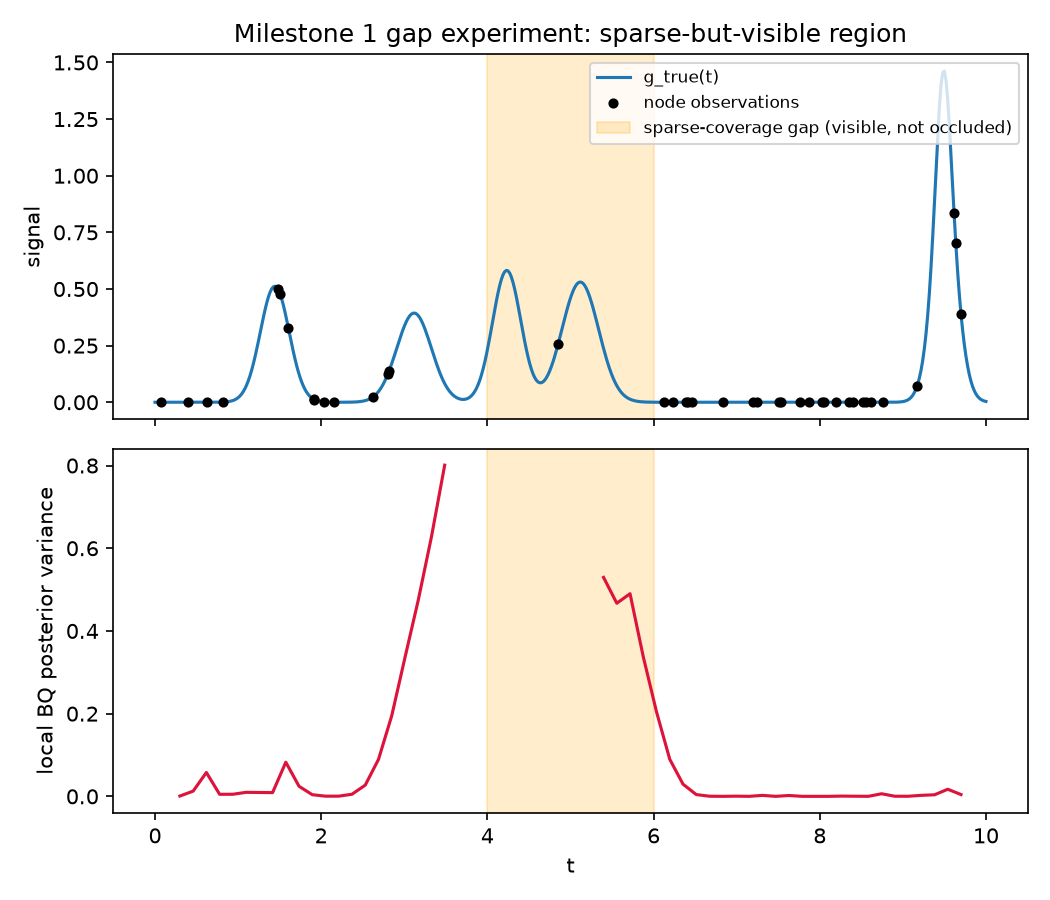
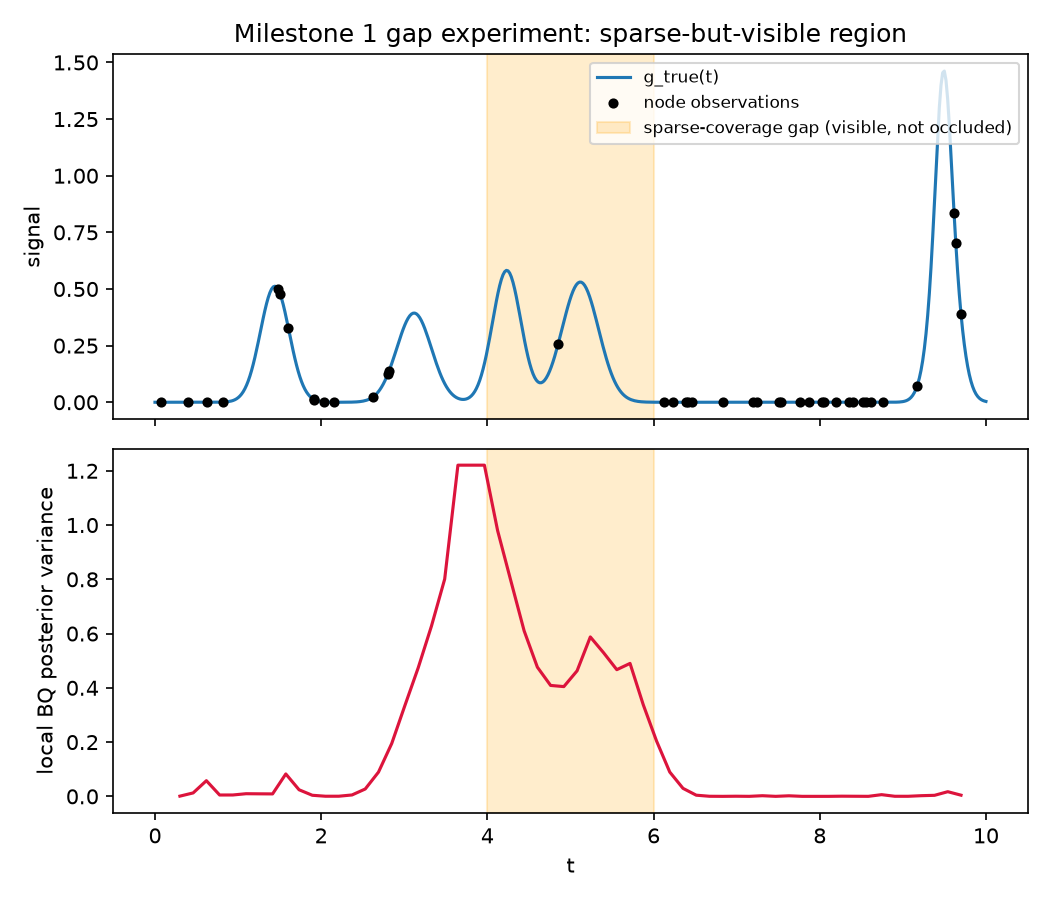
Fix NaN break in gap-experiment variance curve, update numbers
gap_experiment() skipped local BQ variance whenever fewer than 2 nodes fell
in a query window, appending NaN -- which matplotlib renders as a broken
line, right inside the sparse-coverage gap where the plot mattered most.
bayesian_quadrature() already handles n=0 (falls back to the prior
variance) and n=1 (a well-conditioned 1x1 solve) correctly, so the guard
was unnecessary. Removing it gives a continuous curve.

The corrected curve is more specific than the earlier write-up claimed:
variance peaks at the gap's leading edge, where sparse coverage first meets
real high-frequency structure, then stays moderately elevated through the
interior rather than climbing to a flat plateau. Updated FINDINGS.md,
README.md, and ROADMAP.md's milestone-1 status to the corrected 3.85x
inside/outside ratio (previously 6.5x, computed on the NaN-biased curve)
and the corrected shape description.

diff --git a/scripts/validate_milestone1.py b/scripts/validate_milestone1.py
@@ -124,9 +124,6 @@ def gap_experiment(seed=1):
         local_nodes_mask = (nodes >= lo) & (nodes <= hi)
         local_nodes = nodes[local_nodes_mask]
         local_values = values[local_nodes_mask]
-        if local_nodes.shape[0] < 2:
-            local_variances.append(np.nan)
-            continue
         result = bayesian_quadrature(local_nodes, local_values, kernel, lo, hi)
         local_variances.append(result.variance)
 

diff --git a/bq_splat/results/FINDINGS.md b/bq_splat/results/FINDINGS.md
@@ -54,20 +54,31 @@ A region interior to the domain (not occluded, not near an edge) was given
 deliberately sparse local node coverage while containing real high-frequency
 signal structure (two overlapping narrow bumps).
 
-- Mean local BQ variance **inside** the gap: 0.456
-- Mean local BQ variance **outside** the gap: 0.070
-- Ratio: **6.5x**
+- Mean local BQ variance **inside** the gap: 0.546
+- Mean local BQ variance **outside** the gap: 0.142
+- Ratio: **3.85x**
 
-See `gap_experiment.png`. This is the toy-scale version of the paper's
-central differentiation claim (quadrature uncertainty flags well-observed-
-but-under-resolved geometry, distinct from occlusion/visibility-based
-uncertainty) and it holds up here. One bonus observation from the plot:
-variance also spikes near a tall, narrow bump around t≈9.5 that's *outside*
-the designated gap and reasonably well-covered by node count — but the bump
-is narrow enough relative to local node spacing that it's still locally
-under-resolved. That's a good sign: the mechanism is responding to genuine
-local under-sampling-relative-to-structure in general, not just to the one
-region it was specifically constructed to flag.
+(An earlier version of this script had a plotting bug — a local window with
+fewer than 2 nodes was skipped and recorded as `NaN` instead of computing
+the variance `bayesian_quadrature` already supports for those cases. That
+silently broke the plotted curve inside the gap, at exactly the points that
+should matter most, and also biased the "inside"/"outside" means reported
+in an earlier draft of this file — 0.456/0.070/6.5x — since points nearest
+the gap's sparsest coverage were the ones being dropped. The numbers above
+are from the corrected script.)
+
+See `gap_experiment.png`. The curve is more specific than "rises uniformly
+inside the sparse region": variance peaks (~1.2) right at the gap's leading
+edge, where sparse coverage first meets the two-bump high-frequency
+structure, then stays moderately elevated (~0.4-0.6) through the gap's
+interior before dropping off outside it. That's still consistent with the
+paper's differentiation claim — variance is responding to under-sampling
+*relative to local signal structure*, not to node count in isolation — but
+it's a more specific and more interesting shape than a flat elevated
+plateau, and is worth designing the eventual real (GS-based) differentiation
+experiment around: expect the effect to be strongest at the boundary where
+coverage drops off against real structure, not necessarily uniform across
+an entire under-covered region.
 
 ## 4. Numerical conditioning: a real implementation lesson
 

diff --git a/ROADMAP.md b/ROADMAP.md
@@ -204,9 +204,11 @@ Native Uncertainty preprint, already summarized above):
    run; see `bq_splat/results/FINDINGS.md` for the qualified-pass write-up
    (BQ mean still loses to naive Riemann summation on raw accuracy, matching
    the original NeRF-BQ result, but posterior variance is reasonably
-   calibrated for both kernels and the gap experiment shows ~6.5x higher
-   local variance in an under-sampled-but-visible region — supporting the
-   differentiation claim at toy scale). Also surfaced a real numerical-
+   calibrated for both kernels and the gap experiment shows ~3.9x higher
+   average local variance in an under-sampled-but-visible region, peaking at
+   the region's leading edge where sparse coverage meets real structure —
+   supporting the differentiation claim at toy scale, with a more specific
+   shape than a flat plateau. Also surfaced a real numerical-
    conditioning issue (irregular node spacing can push the Gram matrix
    condition number past 1e18 with a fixed jitter) and fixed it with a
    relative jitter — a lesson that carries into the eventual gsplat port.

diff --git a/bq_splat/README.md b/bq_splat/README.md
@@ -40,8 +40,10 @@ NeRF-BQ result recorded in this repo's history, and further evidence that
 "beat accuracy" is the wrong frame for this paper (per ROADMAP.md). But BQ's
 posterior variance is reasonably well correlated with its own actual error
 for both kernels (~0.7), and a deliberately under-sampled-but-visible region
-shows ~6-7x higher local BQ variance than well-covered regions — a toy-scale
-replication of the paper's central differentiation claim. One implementation
+shows ~3.9x higher local BQ variance than well-covered regions on average —
+peaking (~1.2) right at the region's leading edge, where sparse coverage
+first meets real signal structure — a toy-scale replication of the paper's
+central differentiation claim. One implementation
 lesson worth carrying into the gsplat port: irregular (as opposed to evenly
 stratified) node placement can push the Gram matrix condition number past
 1e18 with a naive fixed jitter; a jitter relative to the kernel's own scale
